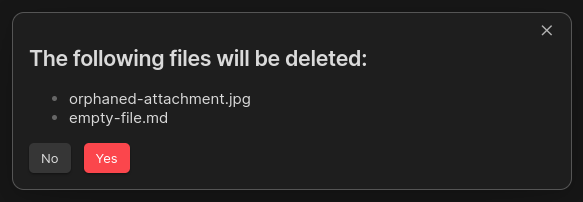
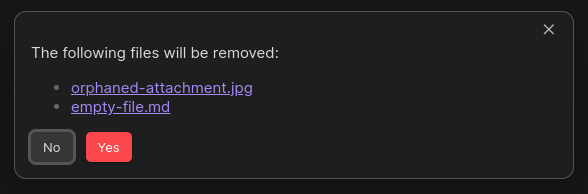
Updated deletion modal with clickable links to files (#4)
* updated deletion modal with clickable links to files

* updated README to use new image

Changed region(s): [[0.0, 0.0309, 0.988, 0.9588], [0.0926, 0.433, 0.4322, 0.6186]]

diff --git a/src/helpers.ts b/src/helpers.ts
@@ -1,4 +1,4 @@
-import { ButtonComponent, Modal } from "obsidian";
+import { App, ButtonComponent, Modal, TFile } from "obsidian";
 import translate from "./i18n";
 
 interface ConfirmationModalProps {
@@ -11,6 +11,47 @@ export function ConfirmationModal({ text, onConfirm }: ConfirmationModalProps) {
 
   modal.contentEl.createEl("p", {
     text: document.createRange().createContextualFragment(text),
+  });
+
+  new ButtonComponent(modal.contentEl)
+    .setButtonText(translate().Modals.ButtonNo)
+    .onClick(() => {
+      modal.close();
+    }).buttonEl.style.marginRight = "1em";
+
+  new ButtonComponent(modal.contentEl)
+    .setButtonText(translate().Modals.ButtonYes)
+    .setWarning()
+    .onClick(() => {
+      onConfirm?.();
+      modal.close();
+    });
+
+  modal.open();
+}
+
+interface DeletionModalProps {
+  files: TFile[];
+  // eslint-disable-next-line @typescript-eslint/no-explicit-any
+  onConfirm?: any;
+  app: App;
+}
+export function DeletionModal({ files, onConfirm, app }: DeletionModalProps) {
+  const modal = new Modal(this.app);
+
+  modal.contentEl.createEl("p", {
+    text: "The following files will be removed:",
+  });
+
+  const ul = modal.contentEl.createEl("ul");
+
+  files.map((file) => {
+    const li = ul.createEl("li");
+    li.innerHTML = `<a>${file.path}</a>`;
+    li.onClickEvent(async () => {
+      const leaf = await app.workspace.getLeaf();
+      leaf.openFile(file);
+    });
   });
 
   new ButtonComponent(modal.contentEl)

diff --git a/src/util.ts b/src/util.ts
@@ -2,7 +2,7 @@ import { App, Notice, TFile } from "obsidian";
 import { FileCleanerSettings } from "./settings";
 import translate from "./i18n";
 import { Deletion } from "./enums";
-import { ConfirmationModal } from "./helpers";
+import { DeletionModal } from "./helpers";
 
 async function removeFile(
   file: TFile,
@@ -84,18 +84,12 @@ export async function runCleanup(app: App, settings: FileCleanerSettings) {
 
   if (!settings.deletionConfirmation) removeFiles(files, app, settings);
   else {
-    let modalText = `<h3>${translate().Modals.DeletionConfirmation}:</h3>`;
-    modalText += "<ul>";
-    for (const file of files) {
-      modalText += `<li>${file.path}</li>`;
-    }
-    modalText += "<ul>";
-
-    await ConfirmationModal({
-      text: modalText,
+    await DeletionModal({
+      files,
       onConfirm: () => {
         removeFiles(files, app, settings);
       },
+      app,
     });
   }
 }
